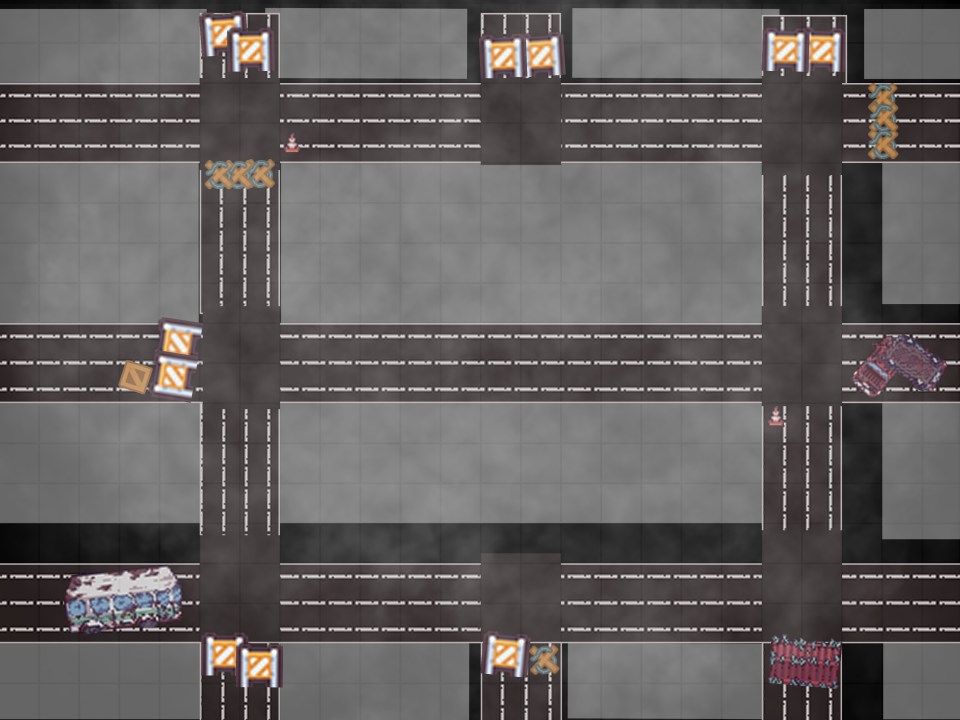
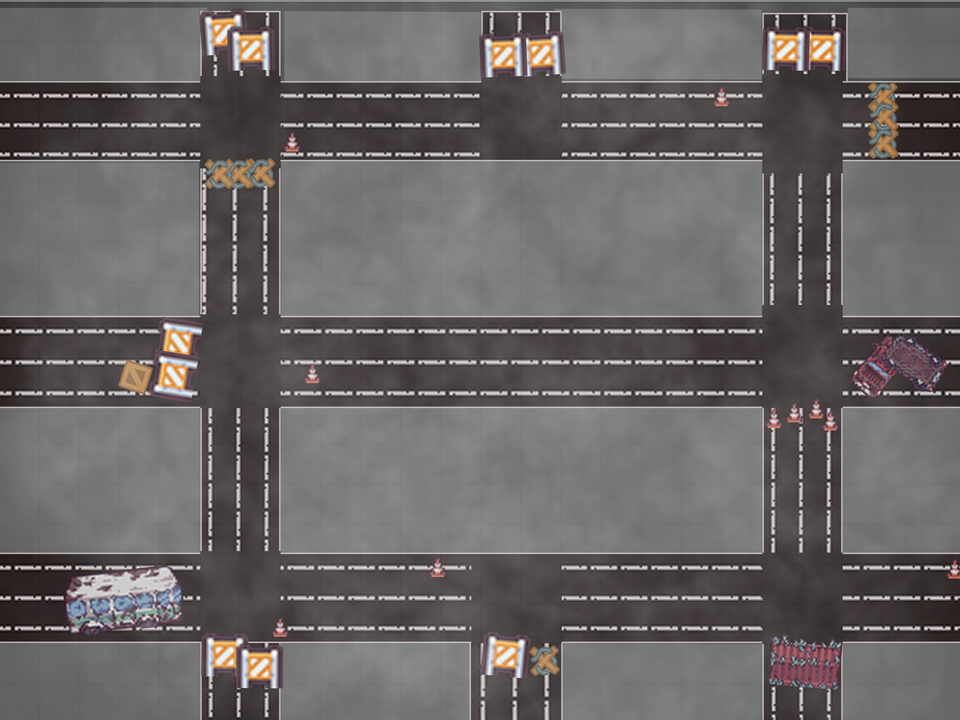
Tower Placement fix + Fixed map having black spots

Changed region(s): [[0.0, 0.0, 1.0, 1.0]]

diff --git a/src/main/java/btd/core/GameMap.java b/src/main/java/btd/core/GameMap.java
@@ -26,11 +26,25 @@ public class GameMap {
             {1068, 0, 1068, 720},    // right vertical road, full height
             {686, 0, 686, 119},      // top stub
             {686, 597, 686, 720},    // bottom stub
-            {1068, 119, 1280, 119},  // top road, right of the turn
-            {0, 358, 314, 358},      // middle road, left end
-            {1068, 358, 1280, 358},  // middle road, right end
-            {0, 597, 314, 597}       // bottom road, left end
+            {1068, 358, 1280, 358}   // middle road, right end
     };
+
+    // Dead-end roads closed off by an obstacle. Drawn like the other roads, but towers may be
+    // built on them (except on the obstacle itself, see OBSTACLES). Same 1280x720 file canvas.
+    private static final double[][] DEAD_END_ROADS = {
+            {1068, 119, 1280, 119},  // top road, right of the turn (chevron barricades)
+            {0, 358, 314, 358},      // middle road, left end (crates)
+            {0, 597, 314, 597}       // bottom road, left end (broken car)
+    };
+
+    // Things drawn on the map that towers can't sit on: left, top, right, bottom in map
+    // pixels (960x720, already squeezed, unlike the road lists above)
+    private static final double[][] OBSTACLES = {
+            {865, 78, 900, 158},     // chevron barricades, top right
+            {118, 313, 205, 400},    // crates, middle left
+            {63, 560, 186, 636}      // broken car, bottom left
+    };
+    private static final double OBSTACLE_MARGIN = 10;
 
     private final List<double[]> points = new ArrayList<>();
     private final List<Double> cumulative = new ArrayList<>();
@@ -80,9 +94,16 @@ public class GameMap {
      public List<double[]> getExtraRoads() {
         List<double[]> result = new ArrayList<>();
         for (double[] r : EXTRA_ROADS) {
-            result.add(new double[]{r[0] * WIDTH / FILE_WIDTH, r[1], r[2] * WIDTH / FILE_WIDTH, r[3]});
+            result.add(scaleRoad(r));
+        }
+        for (double[] r : DEAD_END_ROADS) {
+            result.add(scaleRoad(r));
         }
         return result;
+    }
+
+    private static double[] scaleRoad(double[] r) {
+        return new double[]{r[0] * WIDTH / FILE_WIDTH, r[1], r[2] * WIDTH / FILE_WIDTH, r[3]};
     }
 
     /** The {x, y} position after walking this far along the track. */
@@ -121,8 +142,15 @@ public class GameMap {
                 || distanceToPath(x, y) < PATH_CLEARANCE) {
             return false;
         }
-        for (double[] r : getExtraRoads()) {
+        for (double[] road : EXTRA_ROADS) {
+            double[] r = scaleRoad(road);
             if (distanceToSegment(x, y, r[0], r[1], r[2], r[3]) < PATH_CLEARANCE) {
+                return false;
+            }
+        }
+        for (double[] o : OBSTACLES) {
+            if (x >= o[0] - OBSTACLE_MARGIN && x <= o[2] + OBSTACLE_MARGIN
+                    && y >= o[1] - OBSTACLE_MARGIN && y <= o[3] + OBSTACLE_MARGIN) {
                 return false;
             }
         }
